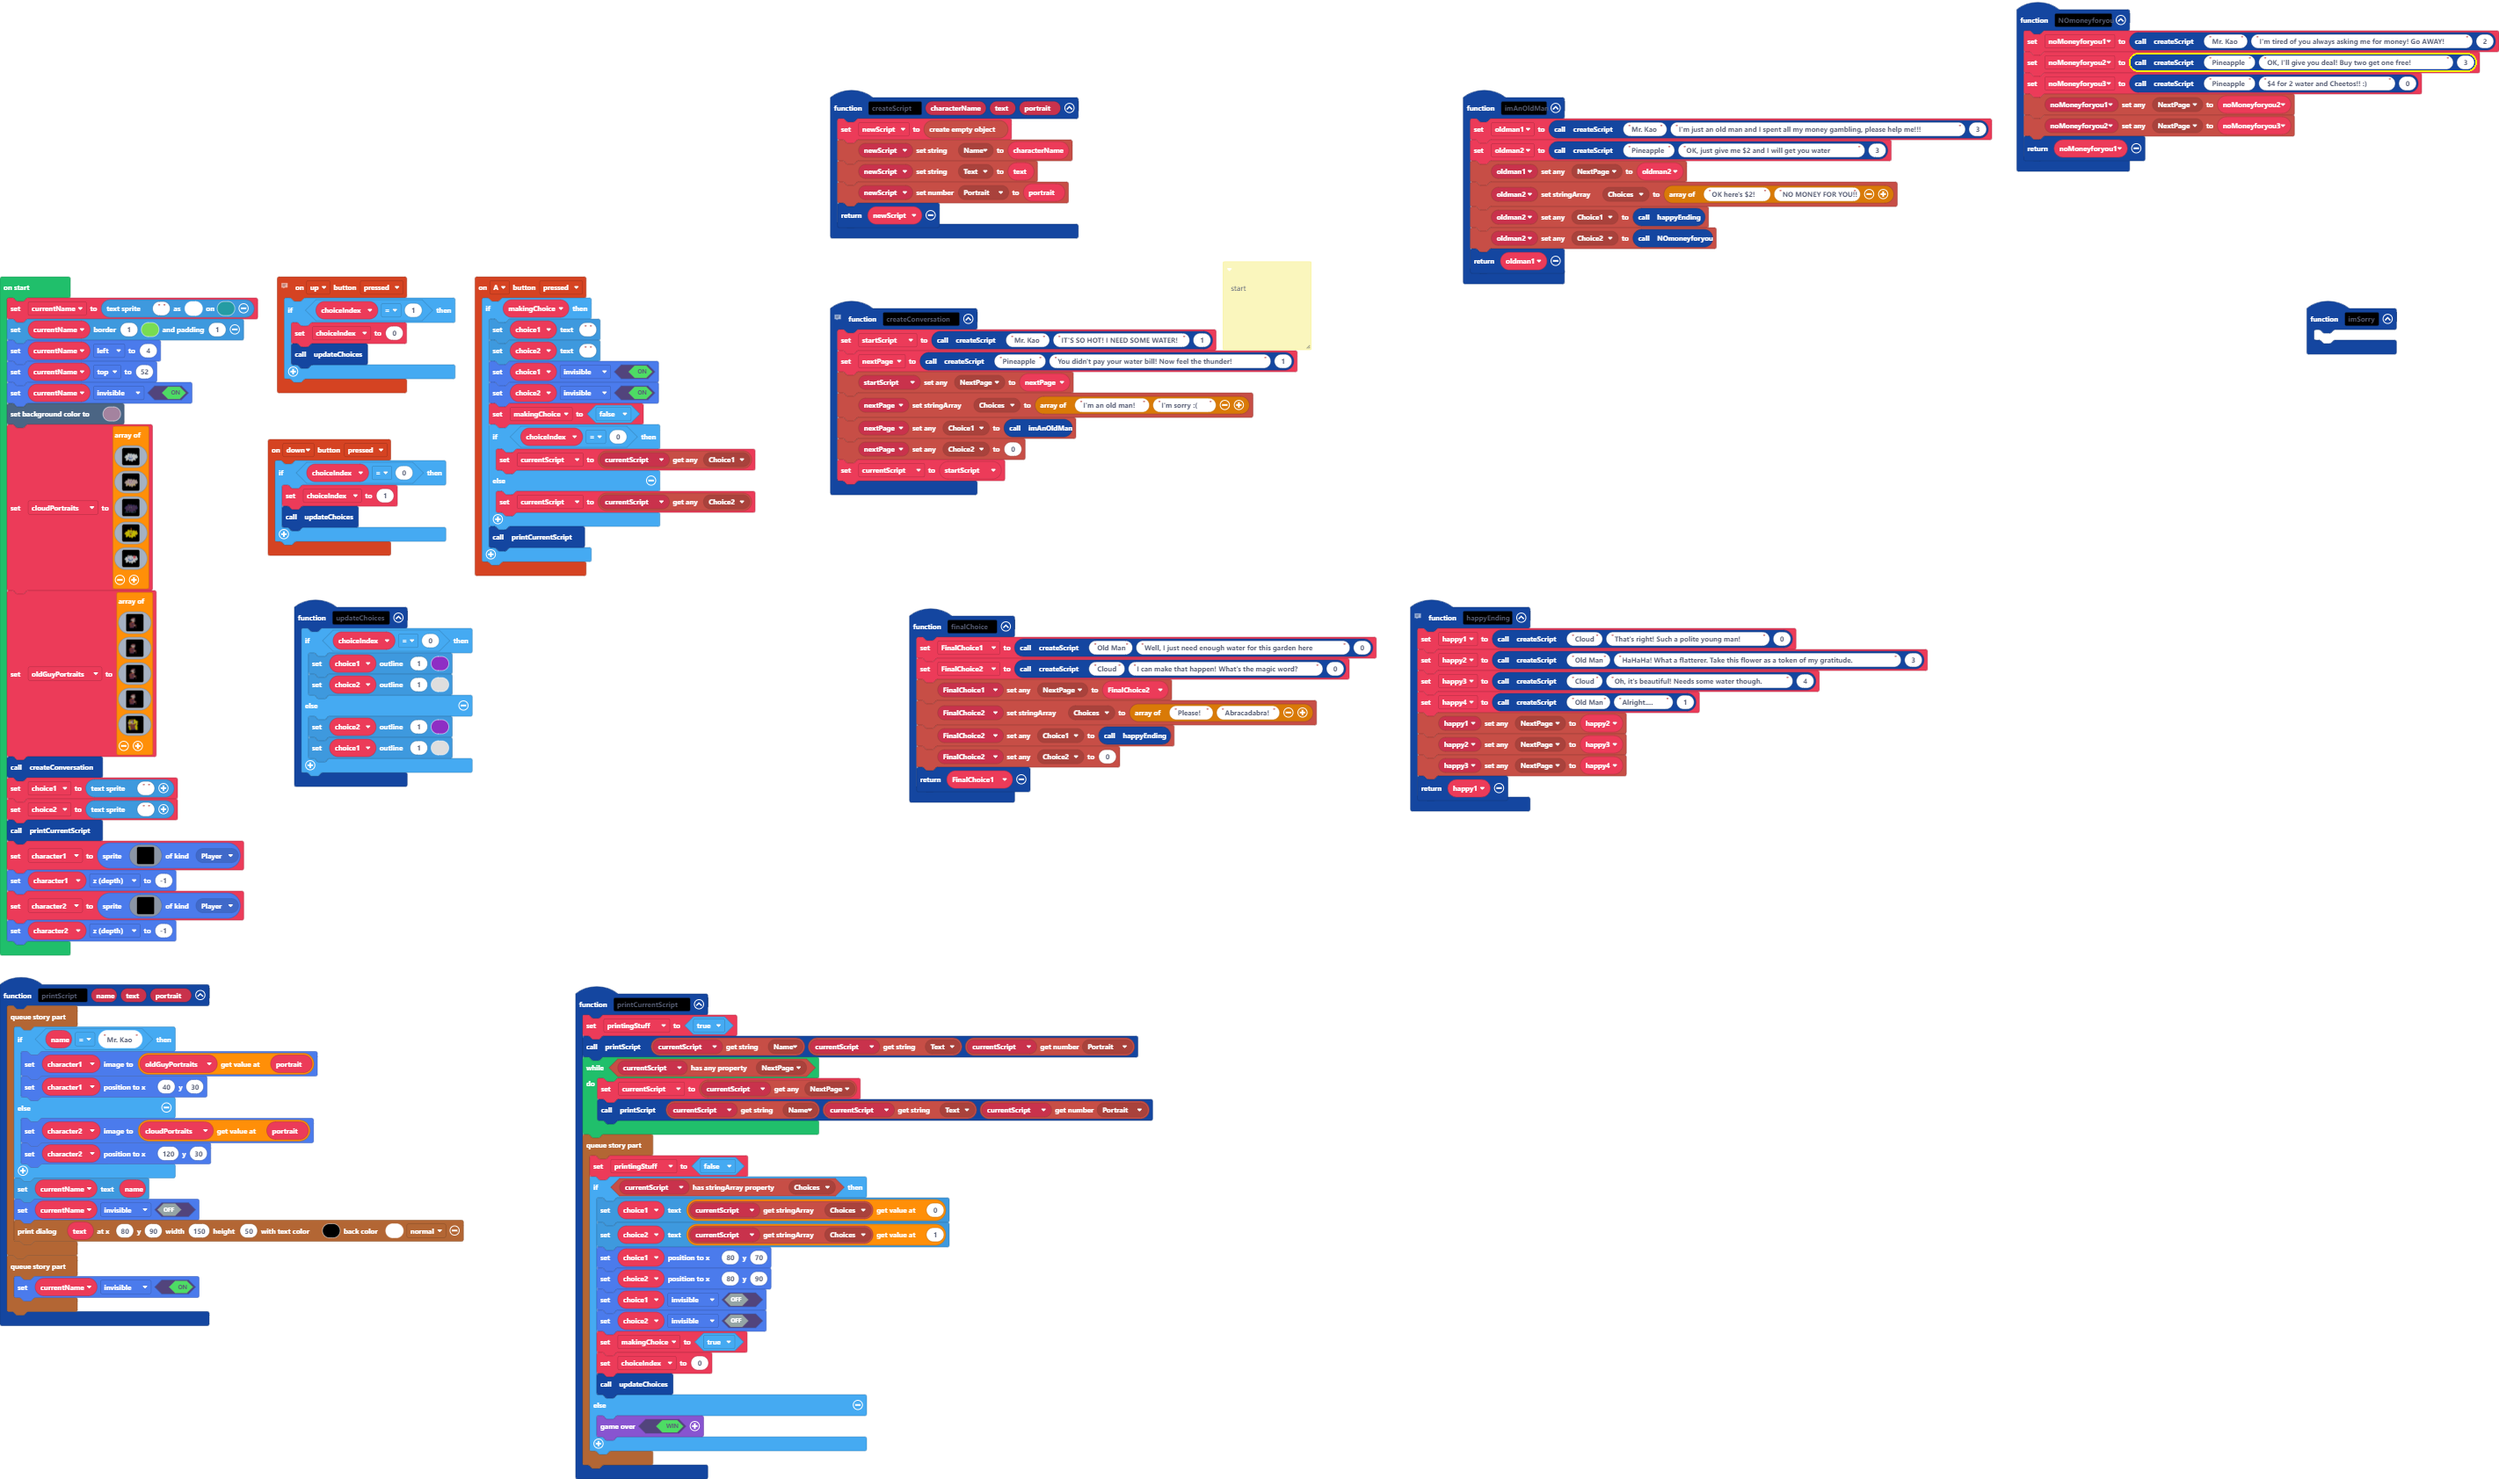
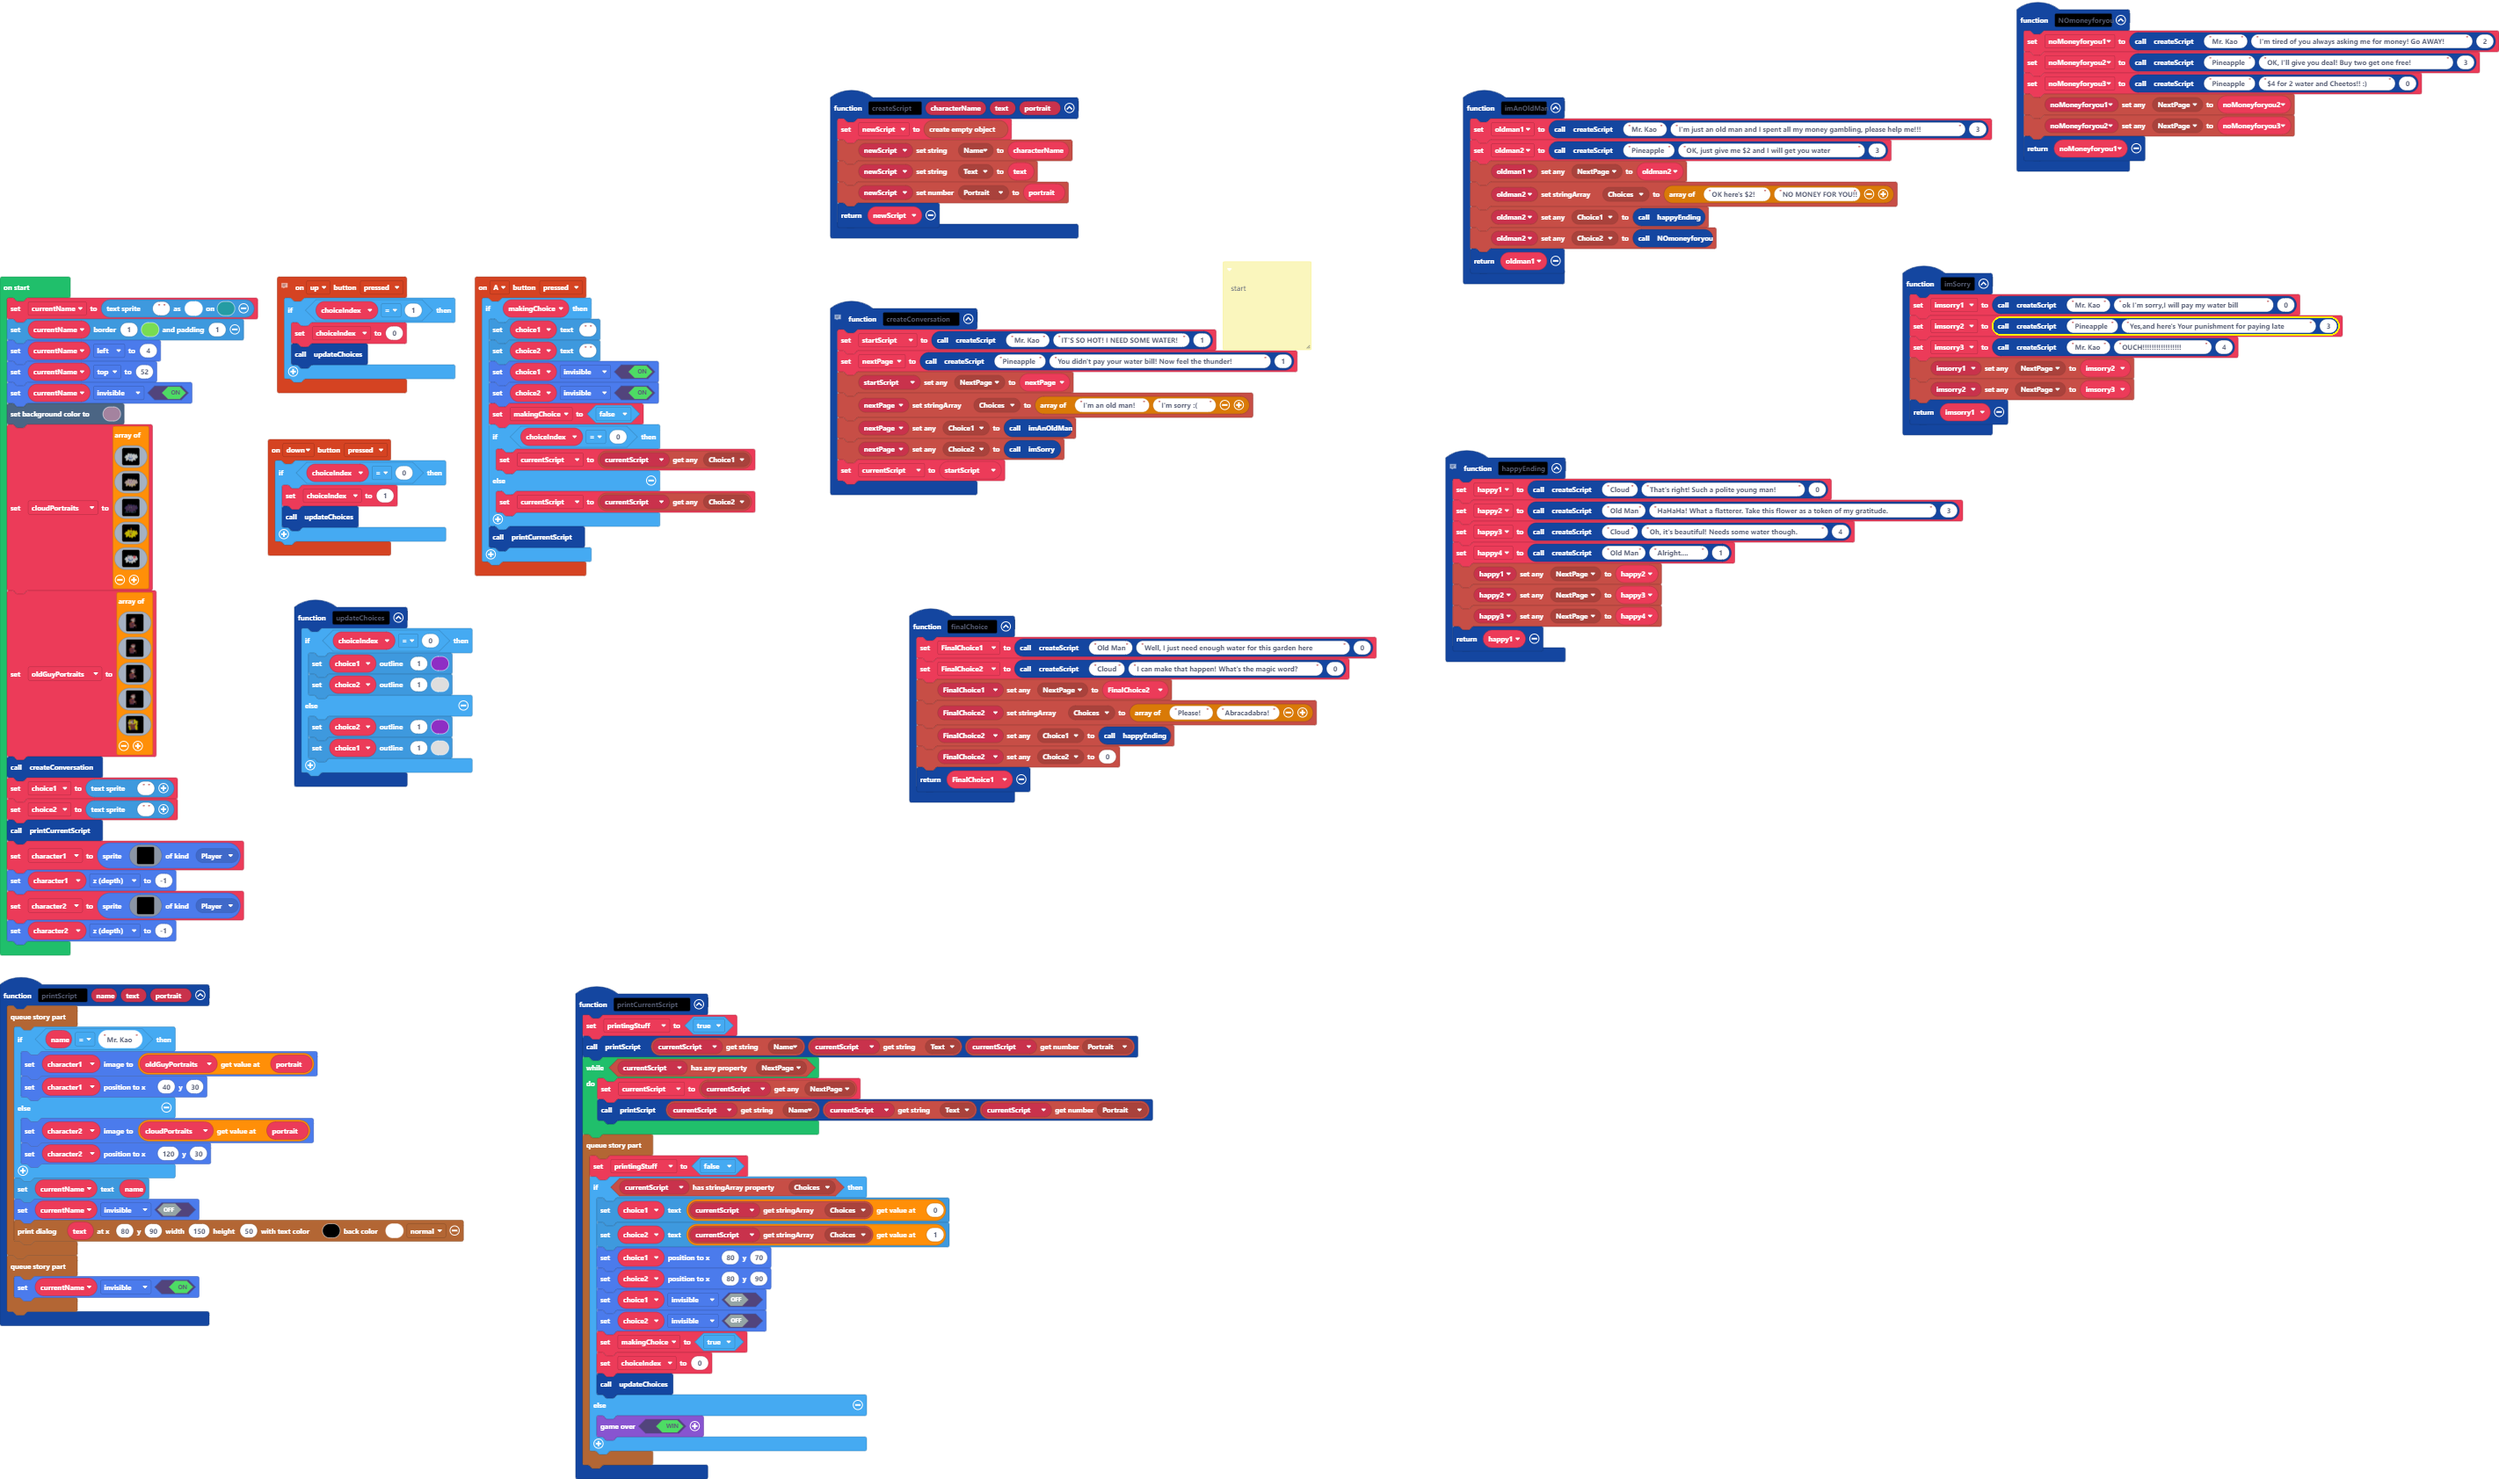
finished I'm sorry

Changed region(s): [[0.5572, 0.309, 0.8048, 0.5561], [0.7429, 0.1854, 0.9595, 0.309], [0.4024, 0.2781, 0.4333, 0.309]]

diff --git a/main.ts b/main.ts
@@ -44,7 +44,12 @@ function happyEnding () {
     return happy1
 }
 function imSorry () {
-	
+    imsorry1 = createScript("Mr. Kao", "ok I'm sorry,I will pay my water bill", 0)
+    imsorry2 = createScript("Pineapple", "Yes,and here's Your punishment for paying late", 3)
+    imsorry3 = createScript("Mr. Kao", "OUCH!!!!!!!!!!!!!!!!!", 4)
+    blockObject.setAnyProperty(imsorry1, AnyProp.NextPage, imsorry2)
+    blockObject.setAnyProperty(imsorry2, AnyProp.NextPage, imsorry3)
+    return imsorry1
 }
 // microsoft/arcade-block-objects
 // 
@@ -64,7 +69,7 @@ function createConversation () {
     blockObject.setAnyProperty(startScript, AnyProp.NextPage, nextPage)
     blockObject.setStringArrayProperty(nextPage, StrArrayProp.Choices, ["I'm an old man!", "I'm sorry :("])
     blockObject.setAnyProperty(nextPage, AnyProp.Choice1, imAnOldMan())
-    blockObject.setAnyProperty(nextPage, AnyProp.Choice2, 0)
+    blockObject.setAnyProperty(nextPage, AnyProp.Choice2, imSorry())
     currentScript = startScript
 }
 function printScript (name: string, text: string, portrait: number) {
@@ -185,6 +190,9 @@ let currentScript: blockObject.BlockObject = null
 let nextPage: blockObject.BlockObject = null
 let startScript: blockObject.BlockObject = null
 let choiceIndex = 0
+let imsorry3: blockObject.BlockObject = null
+let imsorry2: blockObject.BlockObject = null
+let imsorry1: blockObject.BlockObject = null
 let happy4: blockObject.BlockObject = null
 let happy3: blockObject.BlockObject = null
 let happy2: blockObject.BlockObject = null
